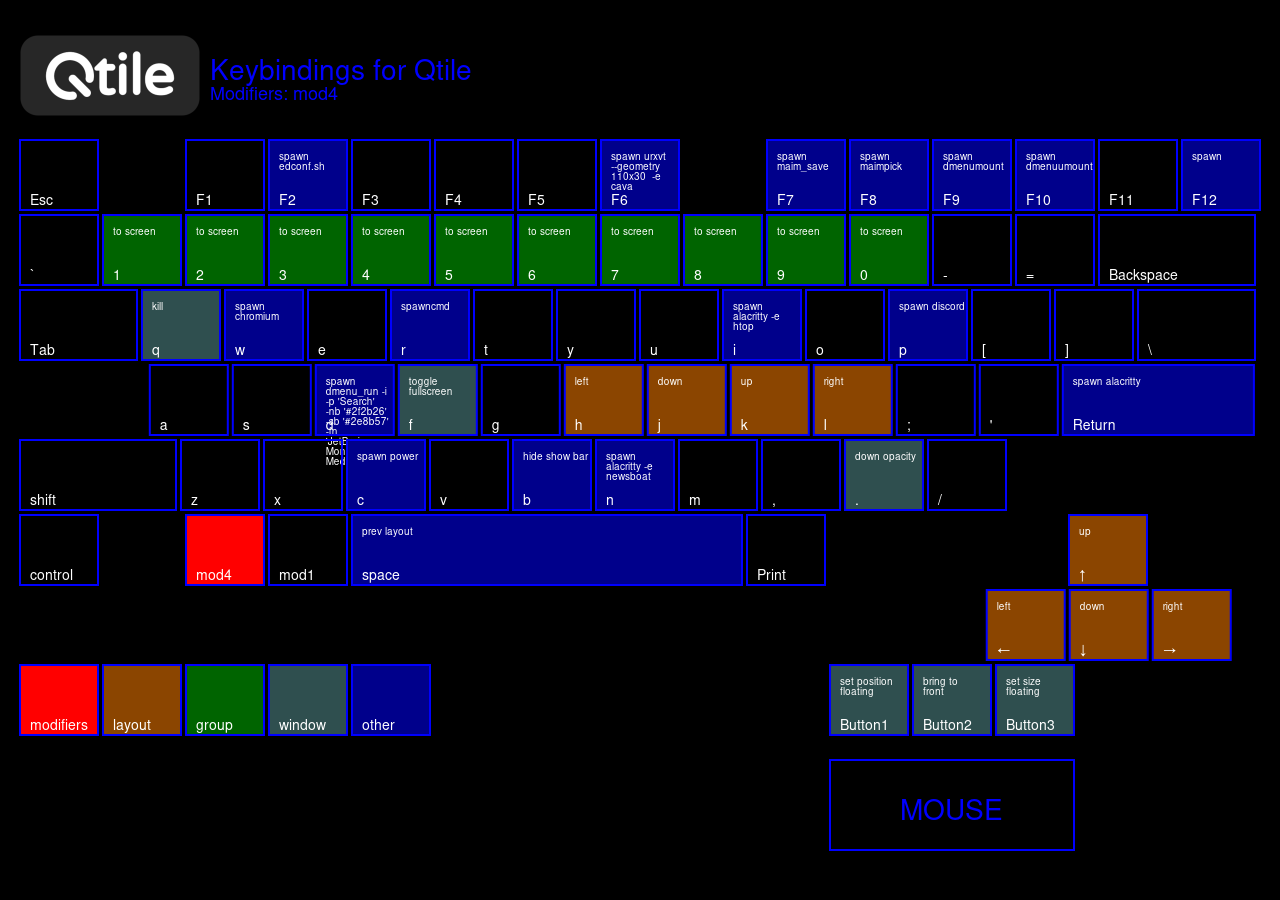
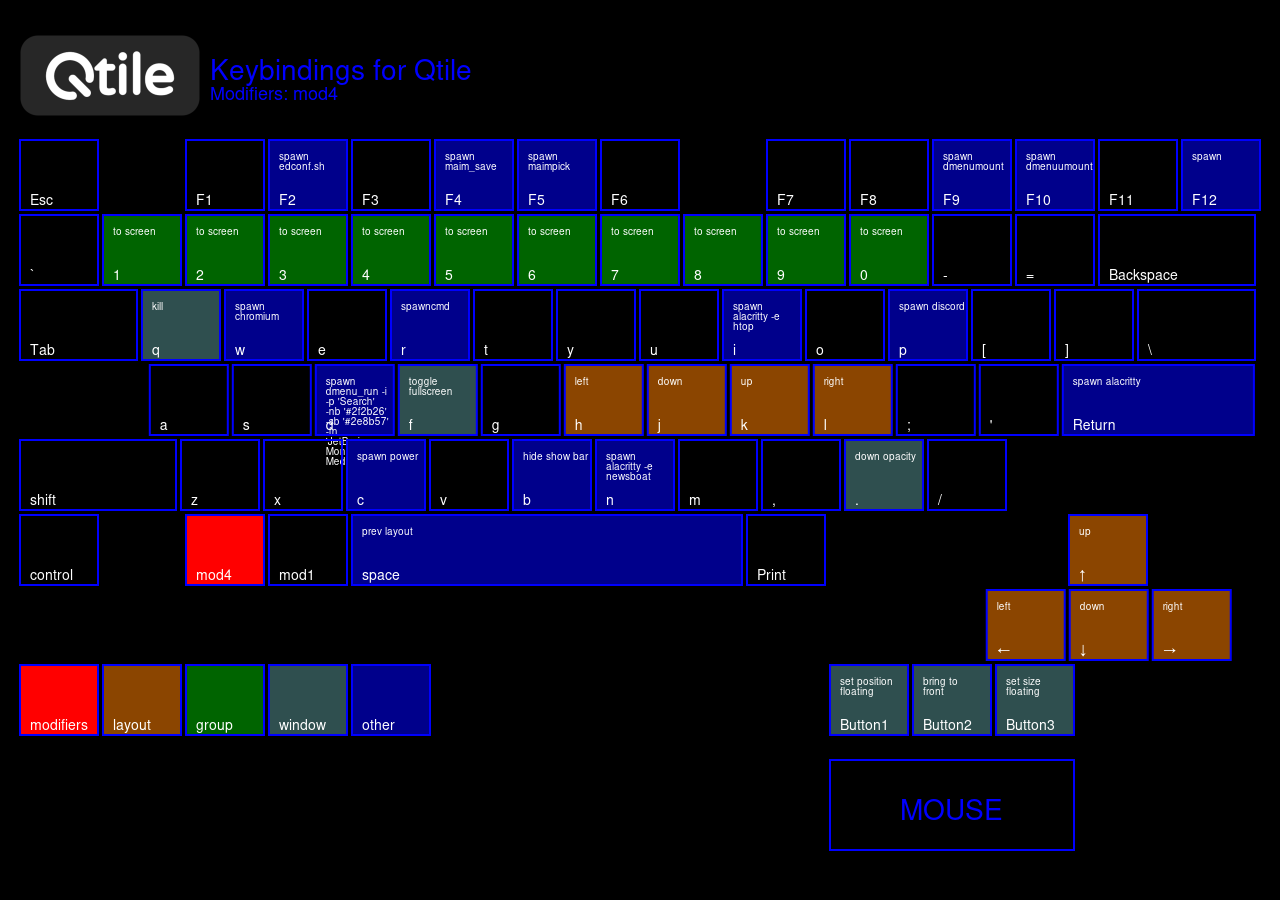
Update keybindig

Changed region(s): [[0.3438, 0.1556, 0.5312, 0.2489], [0.5938, 0.1556, 0.75, 0.2489]]

diff --git a/.config/qtile/config.py b/.config/qtile/config.py
@@ -1,4 +1,4 @@
-# Copyright (c) 2020 MagyArch Linuy
+# Copyright (c) 2020 MagyArch Linux <https://magyarchlinux.org>
 
 
 from libqtile.config import Key, Screen, Group, Drag, Click
@@ -88,9 +88,9 @@ keys = [
     Key([mod], "r", lazy.spawncmd()),
     Key([mod], "w", lazy.spawn(browser)),
     Key([mod], "F2", lazy.spawn("edconf.sh")),
-    Key([mod], "F6", lazy.spawn(termfloat + " -e cava")),
-    Key([mod], "F7", lazy.spawn("maim_save")),
-    Key([mod], "F8", lazy.spawn("maimpick")),
+    # Key([mod], "F6", lazy.spawn(termfloat + " -e cava")),
+    Key([mod], "F4", lazy.spawn("maim_save")),
+    Key([mod], "F5", lazy.spawn("maimpick")),
     Key([mod], "F9", lazy.spawn("dmenumount")),
     Key([mod], "F10", lazy.spawn("dmenuumount")),
     Key([mod], "Return", lazy.spawn(term)),
@@ -177,7 +177,7 @@ group_names = ("1", "2", "3", "4", "5", "6", "7", "8", "9", "10")
 
 group_layouts = ("bsp", "bsp", "bsp", "bsp", "bsp", "bsp", "bsp", "bsp", "floating", "bsp")
 
-group_labels = ("", "", "", "", "", "", "", "", "", "")
+# group_labels = ("", "", "", "", "", "", "", "", "", "")
 
 
 for i in range(len(group_names)):
@@ -296,7 +296,6 @@ screens = [
                     rounded=False,
                     center_aligned=True,
                     highlight_method="block",
-                    # this_current_screen_border="#555555",
                     this_current_screen_border=color.color0,
                     this_screen_border=color.color0,
                     urgent_alert_method="block",
@@ -307,7 +306,6 @@ screens = [
                     margin_x=2,
                     margin_y=3,
                     disable_drag=True,
-                    # inactive="#555555",
                     inactive=color.color1,
                     active=color.foreground,
                     # hide_unused=True
@@ -539,11 +537,11 @@ def grouper(window, windows=app_rules):
 #     client.group.cmd_toscreen()
 
 
-app_float_center = ("calcurse")
+app_float_pos = ("calcurse")
 
 
 @hook.subscribe.client_new
-def go_float(window, windows=app_float_center):
+def go_float(window, windows=app_float_pos):
     win_cal = window.window.get_name()
 
     if win_cal in windows:
